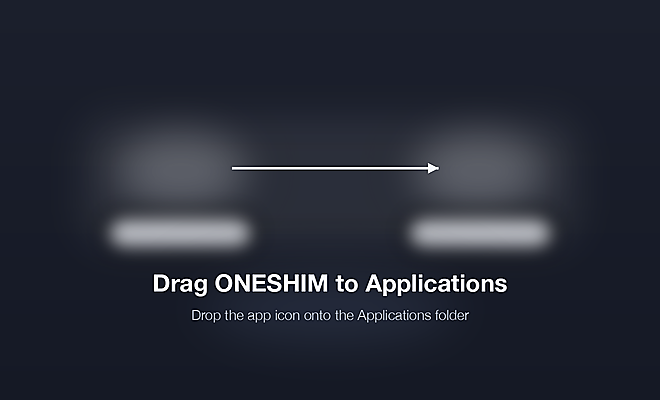
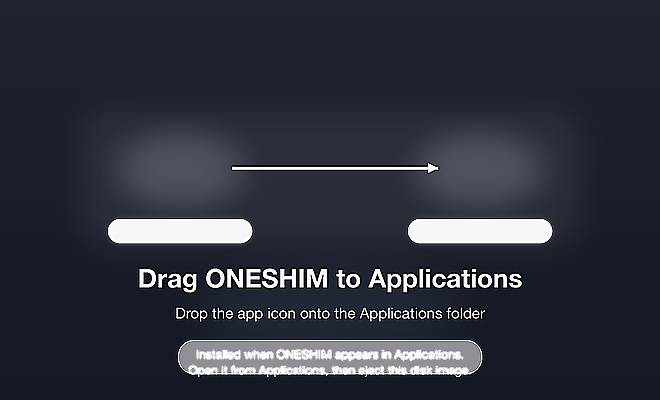
fix(installer): refine dmg packaging

Changed region(s): [[0.1515, 0.51, 0.8485, 0.81], [0.2424, 0.84, 0.7576, 0.96]]

diff --git a/scripts/generate_dmg_background.py b/scripts/generate_dmg_background.py
@@ -10,8 +10,9 @@ OUT_1X = REPO_ROOT / "src-tauri" / "dmg-background.png"
 OUT_2X = REPO_ROOT / "src-tauri" / "[email redacted]"
 
 SIZE_1X = (660, 400)
-SCALE = 2
-SIZE_2X = (SIZE_1X[0] * SCALE, SIZE_1X[1] * SCALE)
+RETINA_SCALE = 2
+MASTER_SCALE = 4
+SIZE_2X = (SIZE_1X[0] * RETINA_SCALE, SIZE_1X[1] * RETINA_SCALE)
 
 FONT_PATH = "/System/Library/Fonts/HelveticaNeue.ttc"
 FONT_REGULAR = 0
@@ -54,6 +55,24 @@ def rounded_panel(
     image.alpha_composite(overlay)
 
 
+def solid_panel(
+    draw: ImageDraw.ImageDraw,
+    box: tuple[float, float, float, float],
+    radius: float,
+    fill: tuple[int, int, int, int],
+    outline: tuple[int, int, int, int] | None,
+    outline_width: float,
+    scale: int,
+) -> None:
+    draw.rounded_rectangle(
+        scaled_box(box, scale),
+        radius=round(radius * scale),
+        fill=fill,
+        outline=outline,
+        width=max(1, round(outline_width * scale)) if outline else 0,
+    )
+
+
 def ellipse_glow(
     image: Image.Image,
     box: tuple[float, float, float, float],
@@ -81,11 +100,27 @@ def centered_text(
     draw.text((center_x - width / 2, top_y), text, font=font, fill=fill)
 
 
+def centered_multiline_text(
+    draw: ImageDraw.ImageDraw,
+    center_x: float,
+    top_y: float,
+    lines: list[str],
+    font: ImageFont.FreeTypeFont,
+    fill: tuple[int, int, int, int],
+    line_gap: float,
+) -> None:
+    current_y = top_y
+    for line in lines:
+        centered_text(draw, center_x, current_y, line, font, fill)
+        left, top, right, bottom = draw.textbbox((0, 0), line, font=font)
+        current_y += (bottom - top) + line_gap
+
+
 def draw_arrow(draw: ImageDraw.ImageDraw, scale: int) -> None:
     y = round(168 * scale)
     start_x = round(232 * scale)
     end_x = round(438 * scale)
-    shaft_width = round(2.5 * scale)
+    shaft_width = round(3.0 * scale)
     head = round(10 * scale)
     draw.line((start_x, y, end_x, y), fill=(244, 247, 252, 232), width=shaft_width)
     draw.polygon(
@@ -100,64 +135,95 @@ def draw_arrow(draw: ImageDraw.ImageDraw, scale: int) -> None:
 
 def build_background(scale: int) -> Image.Image:
     size = (SIZE_1X[0] * scale, SIZE_1X[1] * scale)
-    image = vertical_gradient(size, (27, 31, 44), (21, 25, 37))
+    image = vertical_gradient(size, (31, 35, 49), (20, 24, 35))
 
     rounded_panel(
         image,
-        (68, 102, 592, 260),
+        (68, 98, 592, 258),
         radius=42,
-        fill=(255, 255, 255, 20),
-        blur=22,
+        fill=(255, 255, 255, 18),
+        blur=18,
         scale=scale,
     )
     ellipse_glow(
         image,
-        (98, 118, 264, 224),
-        fill=(255, 255, 255, 62),
-        blur=24,
+        (104, 122, 258, 218),
+        fill=(255, 255, 255, 44),
+        blur=18,
         scale=scale,
     )
     ellipse_glow(
         image,
-        (396, 118, 562, 224),
-        fill=(255, 255, 255, 62),
-        blur=24,
-        scale=scale,
-    )
-    rounded_panel(
-        image,
-        (104, 214, 256, 252),
-        radius=18,
-        fill=(245, 247, 252, 185),
-        blur=10,
-        scale=scale,
-    )
-    rounded_panel(
-        image,
-        (404, 214, 556, 252),
-        radius=18,
-        fill=(245, 247, 252, 185),
-        blur=10,
+        (402, 122, 556, 218),
+        fill=(255, 255, 255, 44),
+        blur=18,
         scale=scale,
     )
     ellipse_glow(
         image,
-        (178, 258, 482, 360),
-        fill=(126, 149, 193, 38),
-        blur=30,
+        (176, 252, 484, 370),
+        fill=(126, 149, 193, 30),
+        blur=28,
         scale=scale,
     )
 
     draw = ImageDraw.Draw(image)
     draw_arrow(draw, scale)
 
-    title_font = ImageFont.truetype(FONT_PATH, 24 * scale, index=FONT_BOLD)
-    subtitle_font = ImageFont.truetype(FONT_PATH, 14 * scale, index=FONT_LIGHT)
+    rounded_panel(
+        image,
+        (106, 216, 254, 246),
+        radius=16,
+        fill=(255, 255, 255, 36),
+        blur=5,
+        scale=scale,
+    )
+    rounded_panel(
+        image,
+        (406, 216, 554, 246),
+        radius=16,
+        fill=(255, 255, 255, 36),
+        blur=5,
+        scale=scale,
+    )
+
+    solid_panel(
+        draw,
+        (108, 219, 252, 243),
+        radius=14,
+        fill=(244, 247, 252, 224),
+        outline=(255, 255, 255, 80),
+        outline_width=0.8,
+        scale=scale,
+    )
+    solid_panel(
+        draw,
+        (408, 219, 552, 243),
+        radius=14,
+        fill=(244, 247, 252, 224),
+        outline=(255, 255, 255, 80),
+        outline_width=0.8,
+        scale=scale,
+    )
+
+    solid_panel(
+        draw,
+        (178, 340, 482, 374),
+        radius=16,
+        fill=(20, 24, 35, 120),
+        outline=(255, 255, 255, 34),
+        outline_width=0.8,
+        scale=scale,
+    )
+
+    title_font = ImageFont.truetype(FONT_PATH, 26 * scale, index=FONT_BOLD)
+    subtitle_font = ImageFont.truetype(FONT_PATH, 15 * scale, index=FONT_REGULAR)
+    footer_font = ImageFont.truetype(FONT_PATH, 12 * scale, index=FONT_REGULAR)
 
     centered_text(
         draw,
         center_x=330 * scale,
-        top_y=268 * scale,
+        top_y=262 * scale,
         text="Drag ONESHIM to Applications",
         font=title_font,
         fill=(246, 248, 252, 248),
@@ -165,19 +231,34 @@ def build_background(scale: int) -> Image.Image:
     centered_text(
         draw,
         center_x=330 * scale,
-        top_y=306 * scale,
+        top_y=304 * scale,
         text="Drop the app icon onto the Applications folder",
         font=subtitle_font,
-        fill=(196, 205, 222, 236),
+        fill=(205, 214, 229, 236),
+    )
+    centered_multiline_text(
+        draw,
+        center_x=330 * scale,
+        top_y=347 * scale,
+        lines=[
+            "Installed when ONESHIM appears in Applications.",
+            "Open it from Applications, then eject this disk image.",
+        ],
+        font=footer_font,
+        fill=(224, 230, 241, 224),
+        line_gap=5 * scale,
     )
 
     return image
 
 
 def main() -> None:
-    image_2x = build_background(SCALE)
+    image_master = build_background(MASTER_SCALE)
+    image_2x = image_master.resize(SIZE_2X, Image.Resampling.LANCZOS).filter(
+        ImageFilter.UnsharpMask(radius=1.2, percent=145, threshold=2)
+    )
     image_1x = image_2x.resize(SIZE_1X, Image.Resampling.LANCZOS).filter(
-        ImageFilter.UnsharpMask(radius=1.0, percent=140, threshold=2)
+        ImageFilter.UnsharpMask(radius=1.0, percent=150, threshold=2)
     )
 
     OUT_2X.parent.mkdir(parents=True, exist_ok=True)